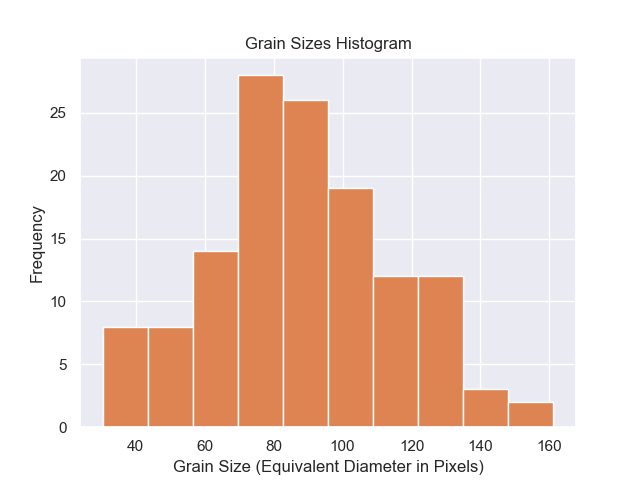
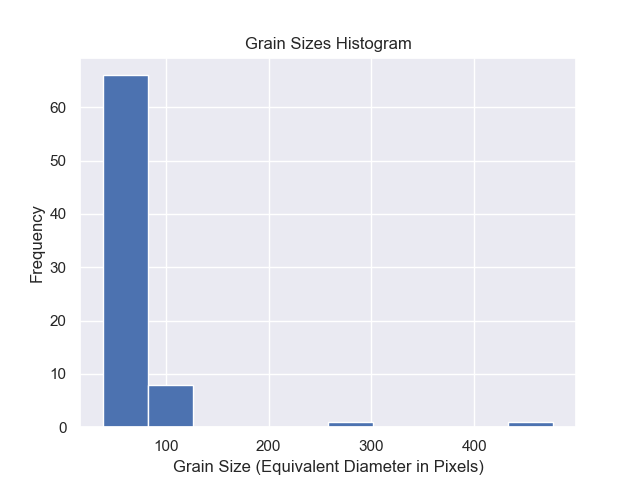
Fixed Hist Overlay Bug

diff --git a/main.py b/main.py
@@ -10,6 +10,9 @@ from flask import Flask, jsonify, request, send_from_directory, render_template
 from flask_cors import CORS
 from phaseAnalysis import GrainPic
 
+import matplotlib
+matplotlib.use('Agg')
+
 sns.set(color_codes=True);
 
 app = Flask(__name__)
@@ -105,6 +108,7 @@ class AdaptiveThreshold:
         plt.xlabel('Grain Size (Equivalent Diameter in Pixels)')
         plt.ylabel('Frequency')
         plt.savefig('static\Figure_1.png')
+        plt.close()
 
     def __repr__(self):
         return str(self.img)
@@ -114,9 +118,6 @@ def upload_file():
     if request.method == 'POST':
         file = request.files['file'];      
         file.save(file.filename);     
-        print("This is the file: ",file);
-
-        print(file.filename);
         test = GrainPic(file.filename, True);
         for_hist = AdaptiveThreshold(file.filename, True);
         result = [];
